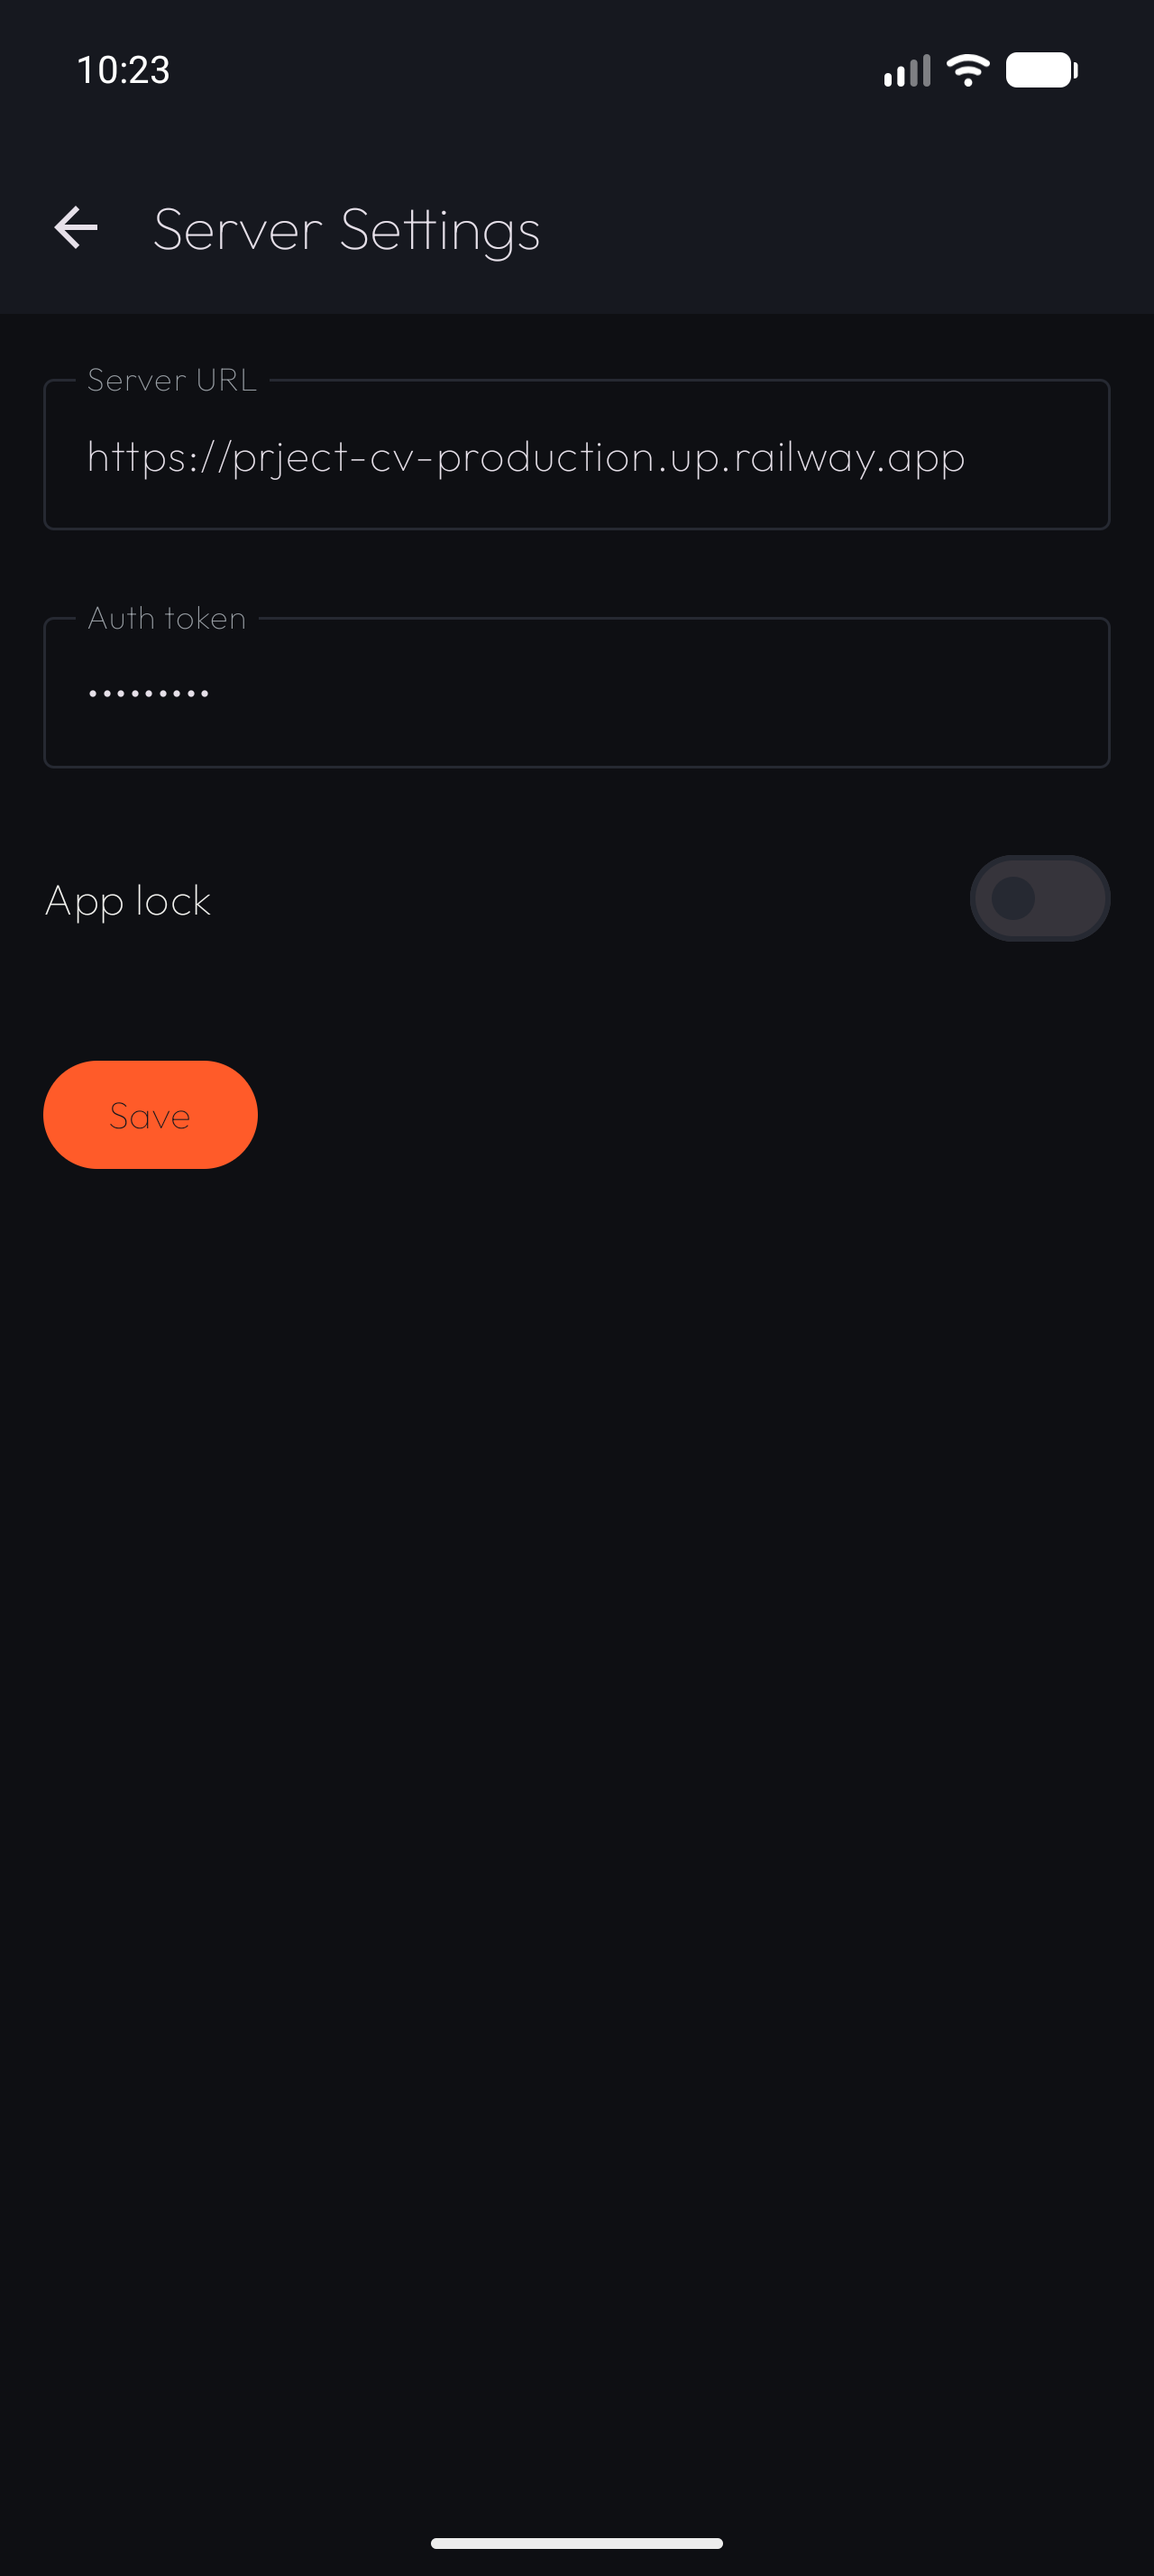
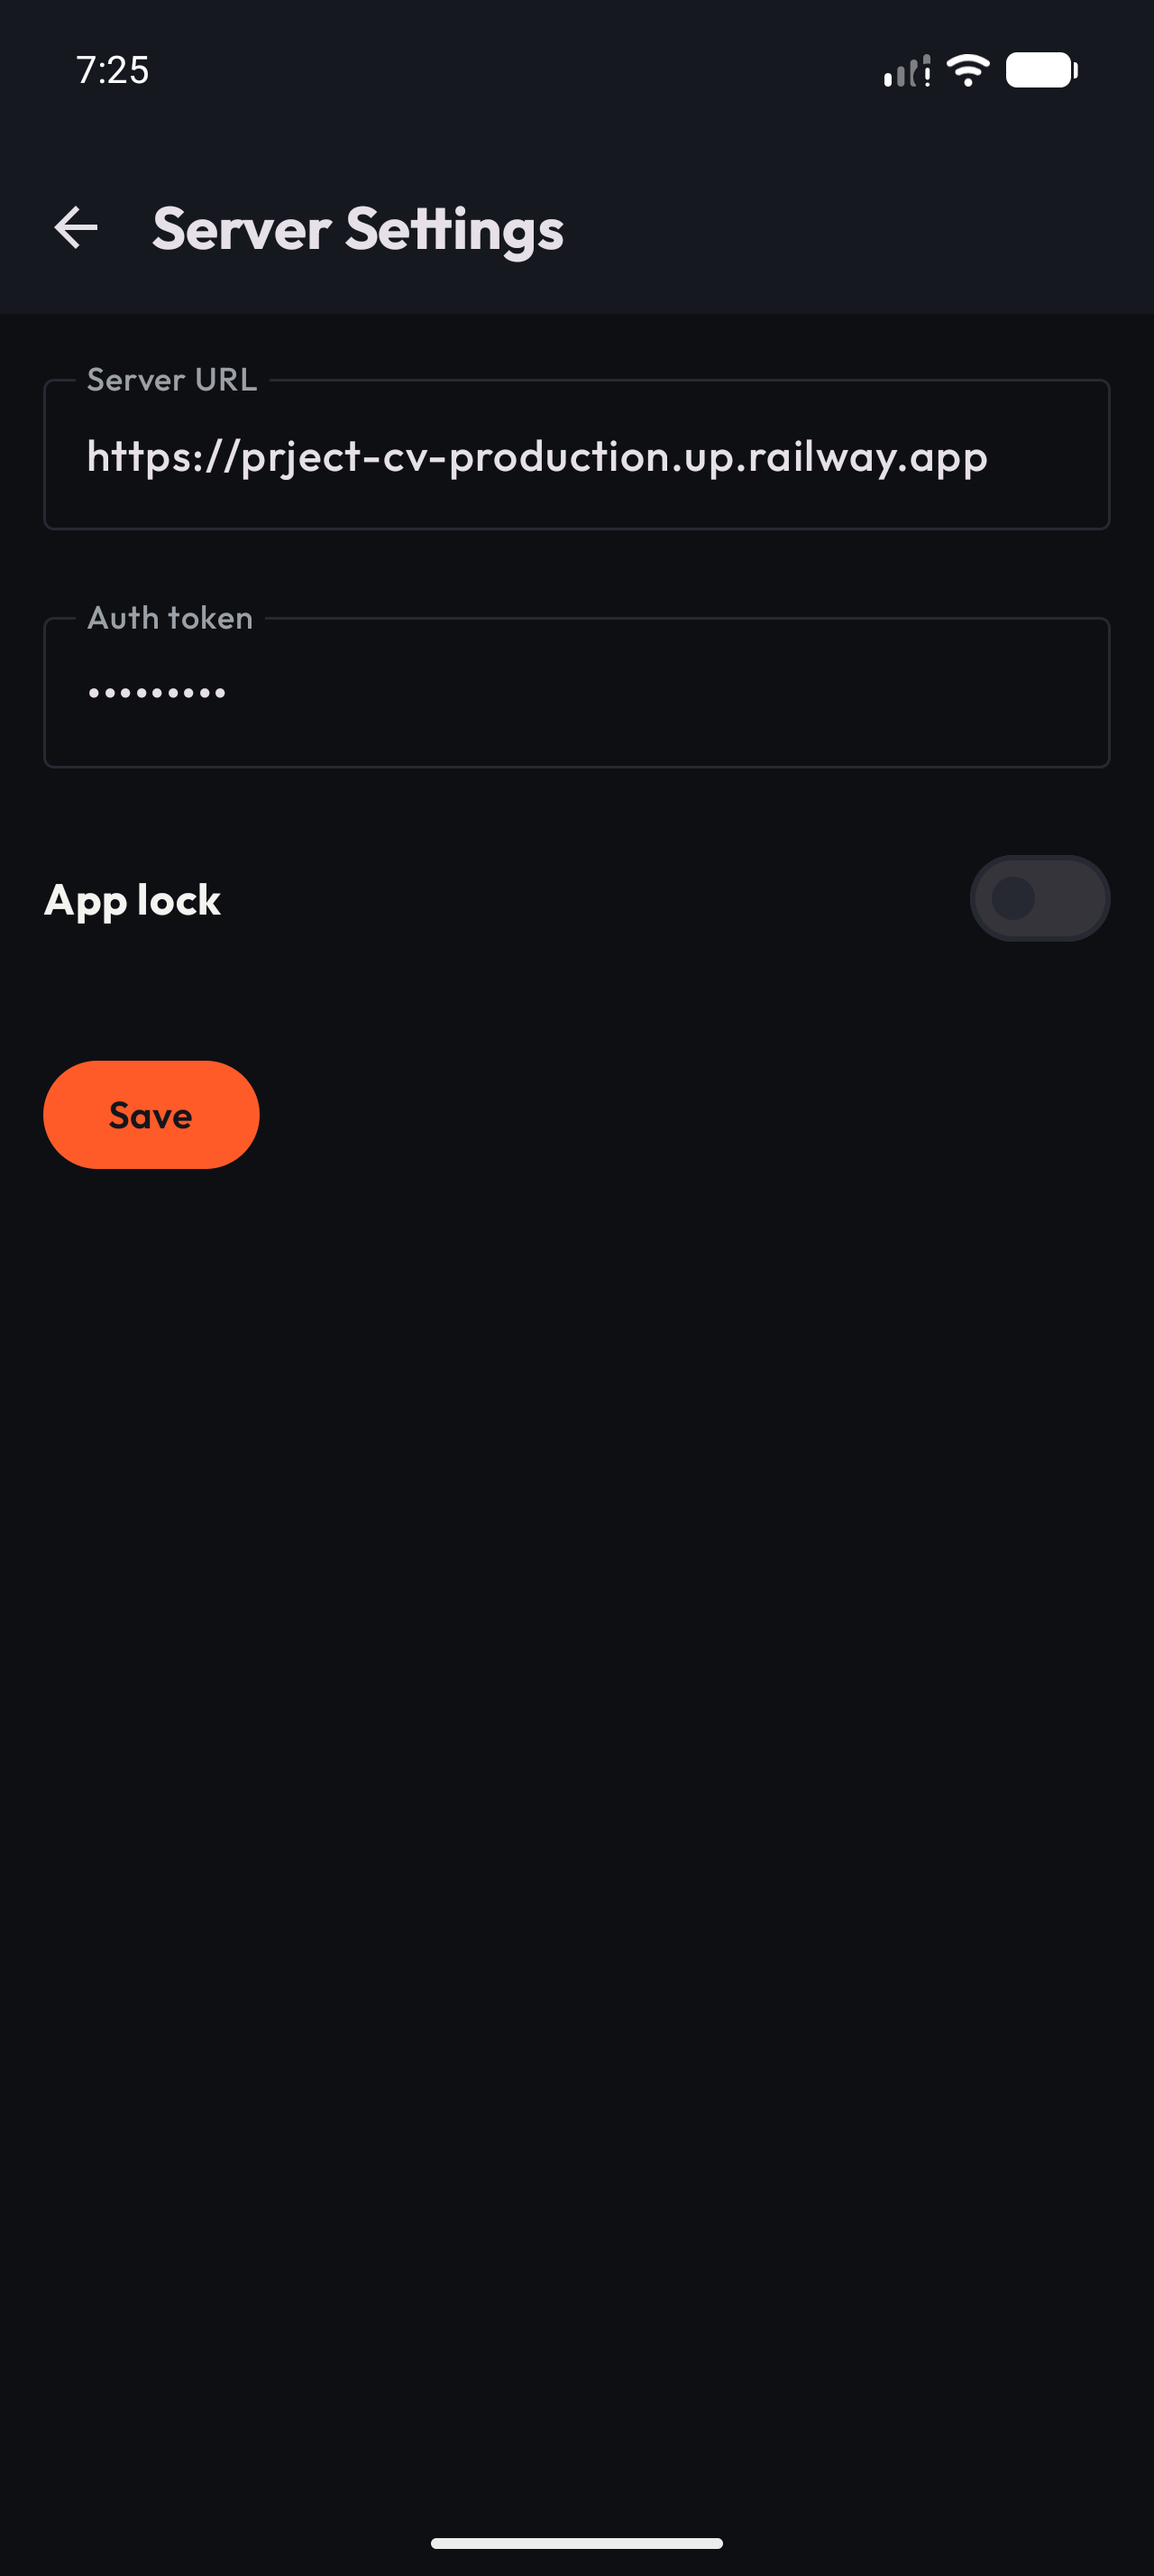
docs: TaskVault README with fresh screenshots

diff --git a/README.md b/README.md
@@ -1,65 +1,78 @@
-# Android Architecture Samples
+# TaskVault
 
-These samples showcase different architectural approaches to developing Android apps. In its different branches you'll find the same app (a TODO app) implemented with small differences.
+[![CI](https://github.com/boudy04/taskvault/actions/workflows/ci.yml/badge.svg)](https://github.com/boudy04/taskvault/actions/workflows/ci.yml)
 
-In this branch you'll find:
-*   User Interface built with **[Jetpack Compose](https://developer.android.com/jetpack/compose)** 
-*   A single-activity architecture, using **[Navigation Compose](https://developer.android.com/jetpack/compose/navigation)**.
-*   A presentation layer that contains a Compose screen (View) and a **ViewModel** per screen (or feature).
-*   Reactive UIs using **[Flow](https://developer.android.com/kotlin/flow)** and **[coroutines](https://kotlinlang.org/docs/coroutines-overview.html)** for asynchronous operations.
-*   A **data layer** with a repository and two data sources (local using Room and a fake remote).
-*   Two **product flavors**, `mock` and `prod`, [to ease development and testing](https://android-developers.googleblog.com/2015/12/leveraging-product-flavors-in-android.html).
-*   A collection of unit, integration and e2e **tests**, including "shared" tests that can be run on emulator/device.
-*   Dependency injection using [Hilt](https://developer.android.com/training/dependency-injection/hilt-android).
+An offline-first Android client for my own FastAPI REST API deployed on [Railway](https://railway.app). Create, edit, complete, and prioritize tasks locally; changes sync to the server when connectivity allows.
+
+The app is built on top of [android/architecture-samples](https://github.com/android/architecture-samples) (single-activity Compose TODO app), which is Copyright The Android Open Source Project and licensed under the Apache License 2.0. TaskVault keeps that skeleton (navigation, task list/detail/add-edit structure, shared test setup) and replaces the fake data layer with Room + Retrofit against a real backend.
+
+## Features
+
+- **Offline-first mutation queue** — every create/edit/complete/delete is queued locally and replayed by a [WorkManager](https://developer.android.com/topic/libraries/architecture/workmanager)-driven `SyncEngine`
+- **Room as source of truth** — the UI always reads from the local database, never blocking on the network
+- **Last-write-wins reconcile** — pull/merge resolution against the server, with per-task sync badges in the list
+- **Dynamic server settings** — base URL and bearer token editable in-app (Settings screen), persisted with DataStore
+- **Dark / light / system theming** with a portfolio palette (Outfit typeface, orange accent)
+- **Pill minimal UI** — priority chips, quiet surfaces, no clutter
+- **Optional biometric app lock** — lock the app behind fingerprint/credential auth (enable in Settings)
+- **Glance home widget** — glanceable task count on the home screen
+- **Connectivity-failure notifications** — the user is told when a sync cannot reach the server instead of failing silently
+
+## Architecture
+
+```
+Compose (UI) → ViewModel → Repository → Room + PendingOps → WorkManager (SyncEngine) → Retrofit → Railway (FastAPI)
+```
+
+The repository exposes `Flow`-based reads straight from Room; writes go to Room *and* a pending-ops queue. A periodic + on-demand `SyncEngine` worker drains the queue over Retrofit, then reconciles the server response back into Room (last write wins).
+
+## How to run
+
+1. Install [Android Studio](https://developer.android.com/studio) with **JDK 17+**
+2. Clone and open the project:
+   ```
+   git clone https://github.com/boudy04/taskvault.git
+   ```
+3. Build and install on a device/emulator:
+   ```
+   .\gradlew installDebug
+   ```
+4. Open **Settings** in the app and enter your server URL and bearer token (the token field is masked). Without them the app runs fully offline and queues everything.
+
+## Testing
+
+```
+.\gradlew testDebugUnitTest        # 60 unit tests
+.\gradlew connectedDebugAndroidTest  # instrumented tests (CI runs them on an emulator)
+.\gradlew lintDebug
+```
+
+Key suites: `SyncEngineTest` (queue drain + reconcile), `OfflineFirstRepositoryTest` (local-first reads/writes), `DataStoreSettingsRepositoryTest` (settings persistence), `WidgetStateTest` (Glance widget state).
 
 ## Screenshots
 
-<img src="screenshots/screenshots.png" alt="Screenshot">
+| Task list (dark) | Edit task + priority |
+| --- | --- |
+| ![Task list in dark mode](docs/screenshots/tasks_dark.png) | ![Edit screen with priority dropdown](docs/screenshots/edit_priority.png) |
+| **Server settings** | **Task list (light)** |
+| ![Server settings with masked token](docs/screenshots/settings.png) | ![Task list in light mode](docs/screenshots/tasks_light.png) |
 
-## Why a to-do app?
-
-The app in this project aims to be simple enough that you can understand it quickly, but complex enough to showcase difficult design decisions and testing scenarios. For more information, see the [app's specification](https://github.com/googlesamples/android-architecture/wiki/To-do-app-specification).
-
-## What is it not?
-*   A template. Check out the [Architecture Templates](https://github.com/android/architecture-templates) instead.
-*   A UI/Material Design sample. The interface of the app is deliberately kept simple to focus on architecture. Check out the [Compose Samples](https://github.com/android/compose-samples) instead.
-*   A real production app with network access, user authentication, etc. Check out the [Now in Android app](https://github.com/android/nowinandroid) instead.
-
-## Who is it for?
-
-*   Intermediate developers and beginners looking for a way to structure their app in a testable and maintainable way.
-*   Advanced developers looking for quick reference.
-
-## Opening a sample in Android Studio
-
-To open one of the samples in Android Studio, begin by checking out one of the sample branches, and then open the root directory in Android Studio. The following series of steps illustrate how to open the sample.
-
-Clone the repository:
+## License
 
 ```
-git clone git@github.com:android/architecture-samples.git
-```
+Copyright 2024 The Android Open Source Project (android/architecture-samples baseline)
 
-Finally open the `architecture-samples/` directory in Android Studio.
+Licensed under the Apache License, Version 2.0 (the "License");
+you may not use this file except in compliance with the License.
+You may obtain a copy of the License at
 
-### License
-
-
-```
-Copyright 2024 Google, Inc.
-
-Licensed to the Apache Software Foundation (ASF) under one or more contributor
-license agreements. See the NOTICE file distributed with this work for
-additional information regarding copyright ownership. The ASF licenses this
-file to you under the Apache License, Version 2.0 (the "License"); you may not
-use this file except in compliance with the License. You may obtain a copy of
-the License at
-
-http://www.apache.org/licenses/LICENSE-2.0
+    http://www.apache.org/licenses/LICENSE-2.0
 
 Unless required by applicable law or agreed to in writing, software
-distributed under the License is distributed on an "AS IS" BASIS, WITHOUT
-WARRANTIES OR CONDITIONS OF ANY KIND, either express or implied. See the
-License for the specific language governing permissions and limitations under
-the License.
+distributed under the License is distributed on an "AS IS" BASIS,
+WITHOUT WARRANTIES OR CONDITIONS OF ANY KIND, either express or implied.
+See the License for the specific language governing permissions and
+limitations under the License.
 ```
+
+The [Outfit](https://fonts.google.com/specimen/Outfit) typeface is used under the SIL Open Font License (license text shipped in-app at `res/raw/ofl_outfit_font_license.txt`).
